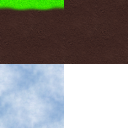
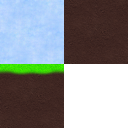
demoTilemap: cycle tiles on click, save/load map, minor cleanup

diff --git a/RaiderEngine/Tilemap.cpp b/RaiderEngine/Tilemap.cpp
@@ -4,7 +4,51 @@
 #include "settings.hpp"
 #include "timing.hpp"
 
-Tilemap::Tilemap(std::string spriteName, int gridSize, glm::vec2 mapSize, glm::vec2 pos, float depth) : gridSize(gridSize), mapSize(mapSize), pos(pos), depth(depth) {
+void Tilemap::setTileData(GLfloat start[], int x, int y) {
+	// TODO: simplify usage
+	// code modified from graphics.cpp >> renderText
+	GLfloat xpos = static_cast<GLfloat>(x * gridSize);
+	GLfloat ypos = static_cast<GLfloat>(y * gridSize);
+	GLfloat x0 = map[x][y] % (sprite.width / gridSize) / static_cast<float>((sprite.width / gridSize));
+	GLfloat y0 = map[x][y] / (sprite.width / gridSize) / static_cast<float>((sprite.height / gridSize));
+
+	GLfloat x1 = x0 + gridSize / static_cast<float>(sprite.width);
+	GLfloat y1 = y0 + gridSize / static_cast<float>(sprite.height);
+
+	// TODO: try tristrips (see GameObject2D / ParticleEmitter2D) for a minor performance boost
+	// add image position and uv data to the vertex vector
+	start[0] = xpos;
+	start[1] = ypos;
+	start[2] = x0;
+	start[3] = y0;
+	
+	start[4] = xpos;
+	start[5] = ypos + gridSize;
+	start[6] = x0;
+	start[7] = y1;
+	
+	start[8] = xpos + gridSize;
+	start[9] = ypos + gridSize;
+	start[10] = x1;
+	start[11] = y1;
+	
+	start[12] = xpos;
+	start[13] = ypos;
+	start[14] = x0;
+	start[15] = y0;
+	
+	start[16] = xpos + gridSize;
+	start[17] = ypos + gridSize;
+	start[18] = x1;
+	start[19] = y1;
+	
+	start[20] = xpos + gridSize;
+	start[21] = ypos;
+	start[22] = x1;
+	start[23] = y0;
+}
+
+Tilemap::Tilemap(std::string spriteName, int gridSize, glm::vec2 mapSize, glm::vec2 pos, int numTileTypes, float depth) : gridSize(gridSize), mapSize(mapSize), pos(pos), numTileTypes(numTileTypes), depth(depth) {
 	sprite = (spriteName == "" ? Model::defaultDiffuseMap : Model::loadTextureSimple(spriteName));
 	// TODO: consider instanced rendering visible tiles rather than storing and rendering entire tilemap every frame
 	// init VAO/VBO
@@ -16,63 +60,18 @@ Tilemap::Tilemap(std::string spriteName, int gridSize, glm::vec2 mapSize, glm::v
 	glEnableVertexAttribArray(0);
 	glVertexAttribPointer(0, 4, GL_FLOAT, GL_FALSE, 4 * sizeof(GLfloat), (GLvoid*)0);
 
-	// randomize map  // TODO: placeholder
-	map.resize(mapSize.x);
-	for (unsigned int i = 0; i < mapSize.x; ++i) {
-		map[i].reserve(mapSize.y);
-		for (unsigned int r = 0; r < mapSize.y; ++r)
-			map[i][r] = rand() % 4;
-	}
-	// code modified from graphics.cpp >> renderText
+	map.resize(static_cast<unsigned int>(mapSize.x));
+	for (unsigned int i = 0; i < mapSize.x; ++i)
+		map[i].resize(static_cast<unsigned int>(mapSize.y));
 	std::vector<GLfloat> verts;
-	verts.reserve(24 * mapSize.x * mapSize.y);
-	// Iterate through all characters
-	for (unsigned int i = 0; i < mapSize.x; ++i) {
-		for (unsigned int r = 0; r < mapSize.y; ++r) {
-			GLfloat xpos = i*gridSize;
-			GLfloat ypos = r*gridSize;
-			GLfloat x0 = map[i][r] % (sprite.width / gridSize) / static_cast<float>((sprite.width / gridSize));
-			GLfloat y0 = map[i][r] / (sprite.width / gridSize) / static_cast<float>((sprite.height / gridSize));
-
-			GLfloat x1 = x0 + gridSize / static_cast<float>(sprite.width);
-			GLfloat y1 = y0 + gridSize / static_cast<float>(sprite.height);
-
-			// TODO: try tristrips (see GameObject2D / ParticleEmitter2D) for a minor performance boost
-			// add image position and uv data to the vertex vector
-			verts[24 * (i*mapSize.y+r)] = xpos;
-			verts[24 * (i*mapSize.y+r) + 1] = ypos;
-			verts[24 * (i*mapSize.y+r) + 2] = x0;
-			verts[24 * (i*mapSize.y+r) + 3] = y0;
-
-			verts[24 * (i*mapSize.y+r) + 4] = xpos;
-			verts[24 * (i*mapSize.y+r) + 5] = ypos + gridSize;
-			verts[24 * (i*mapSize.y+r) + 6] = x0;
-			verts[24 * (i*mapSize.y+r) + 7] = y1;
-
-			verts[24 * (i*mapSize.y+r) + 8] = xpos + gridSize;
-			verts[24 * (i*mapSize.y+r) + 9] = ypos + gridSize;
-			verts[24 * (i*mapSize.y+r) + 10] = x1;
-			verts[24 * (i*mapSize.y+r) + 11] = y1;
-
-			verts[24 * (i*mapSize.y+r) + 12] = xpos;
-			verts[24 * (i*mapSize.y+r) + 13] = ypos;
-			verts[24 * (i*mapSize.y+r) + 14] = x0;
-			verts[24 * (i*mapSize.y+r) + 15] = y0;
-
-			verts[24 * (i*mapSize.y+r) + 16] = xpos + gridSize;
-			verts[24 * (i*mapSize.y+r) + 17] = ypos + gridSize;
-			verts[24 * (i*mapSize.y+r) + 18] = x1;
-			verts[24 * (i*mapSize.y+r) + 19] = y1;
-
-			verts[24 * (i*mapSize.y+r) + 20] = xpos + gridSize;
-			verts[24 * (i*mapSize.y+r) + 21] = ypos;
-			verts[24 * (i*mapSize.y+r) + 22] = x1;
-			verts[24 * (i*mapSize.y+r) + 23] = y0;
-		}
-	}
+	verts.reserve(static_cast<unsigned int>(24 * mapSize.x * mapSize.y));
+	// set each tile
+	for (unsigned int i = 0; i < mapSize.x; ++i)
+		for (unsigned int r = 0; r < mapSize.y; ++r)
+			setTileData(&verts[0] + static_cast<int>(24*(i * mapSize.y + r)),i,r);
 
 	// buffer the full set of tiles as a single triangle array for rendering
-	glBufferData(GL_ARRAY_BUFFER, 24 * sizeof(GLfloat) * mapSize.x * mapSize.y, &verts[0], GL_DYNAMIC_DRAW);
+	glBufferData(GL_ARRAY_BUFFER, static_cast<GLsizeiptr>(24 * sizeof(GLfloat) * mapSize.x * mapSize.y), &verts[0], GL_DYNAMIC_DRAW);
 
 	glBindBuffer(GL_ARRAY_BUFFER, 0);
 	glBindVertexArray(0);

diff --git a/RaiderEngine/demos/demoTilemap/demoTilemap.cpp b/RaiderEngine/demos/demoTilemap/demoTilemap.cpp
@@ -7,24 +7,90 @@
 #include "FpsDisplay.hpp"
 #include "input.hpp"
 #include "Tilemap.hpp"
+#include "input.hpp"
+
+Tilemap* t;
+
+void saveMap() {
+	std::fstream mapFile;
+	mapFile.open("demos/demoTilemap/map.txt", std::fstream::out | std::fstream::trunc);
+	for (int i = 0; i < t->mapSize.x; ++i)
+		for (int r = 0; r < t->mapSize.y; ++r)
+			mapFile << t->map[i][r] << ' ';
+	mapFile.close();
+}
+
+void loadMap() {
+	std::fstream mapFile;
+	mapFile.open("demos/demoTilemap/map.txt", std::fstream::in);
+	if (mapFile.is_open()) {
+		for (int i = 0; i < t->mapSize.x; ++i) {
+			for (int r = 0; r < t->mapSize.y; ++r) {
+				// TODO: quick and dirty saving / loading
+				mapFile >> t->map[i][r];
+
+				GLfloat verts[24];
+				t->setTileData(&verts[0], i, r);
+
+				glBindVertexArray(t->VAO);
+				glBindBuffer(GL_ARRAY_BUFFER, t->VBO);
+				glBufferSubData(GL_ARRAY_BUFFER, static_cast<GLintptr>(24 * sizeof(GLfloat) * (i * t->mapSize.y + r)), 24 * sizeof(GLfloat), verts);
+			}
+		}
+		mapFile.close();
+	}
+}
 
 int main() {
 	initEngine();
+	setEnableCursor(true);
 	// directories
 	setFontDir("demos/shared/fonts");
 	setTextureDir("demos/demoTilemap/images");
 
+	// keybindings
+	setKeyBinding("saveMap", GLFW_KEY_S);
+	setKeyBinding("loadMap", GLFW_KEY_L);
+
 	// fonts
 	freetypeLoadFont("Inter-Regular", 18);
 
-	addTilemap(new Tilemap("tilemap.png",64,glm::vec2(16,10),glm::vec2(0)));
+	// TODO: pass map data directly into tilemap constructor
+	t = addTilemap(new Tilemap("tilemap.png",64,glm::vec2(16,10),glm::vec2(0),3));
+	loadMap();
 
 	setVsync(false);
 	setClearColor(.85f, .85f, 1.f, 1.f);
-	addTextObject(new FpsDisplay(6, SCR_HEIGHT - 20, glm::vec3(1.f), "Inter-Regular", 18));
+	addTextObject(new FpsDisplay(6, static_cast<float>(SCR_HEIGHT - 20), glm::vec3(0.f), "Inter-Regular", 18));
+	addTextObject(new TextObject("Press S/L to save/load the Tilemap from the disk", 6, SCR_HEIGHT - 44, glm::vec3(0.f), "Inter-Regular", 18));
+	addTextObject(new TextObject("Left click the grid spaces to cycle their tile types", 6, SCR_HEIGHT - 68, glm::vec3(0.f), "Inter-Regular", 18));
 
 	while (beginFrame(false)) {
 		updateObjects();
+		// cycle hovered tile on left click
+		if (mousePressedLeft) {
+			int gridx = static_cast<int>((lastX - t->pos.x) / t->gridSize);
+			int gridy = static_cast<int>((lastY - t->pos.y) / t->gridSize);
+			if (!(gridx < 0 || gridy < 0 || gridx >= t->mapSize.x || gridy >= t->mapSize.y)) {
+				(++t->map[gridx][gridy]) %= t->numTileTypes;
+
+				GLfloat verts[24];
+				t->setTileData(&verts[0], gridx, gridy);
+
+				glBindVertexArray(t->VAO);
+				glBindBuffer(GL_ARRAY_BUFFER, t->VBO);
+				glBufferSubData(GL_ARRAY_BUFFER, static_cast<GLintptr>(24 * sizeof(GLfloat) * (gridx * t->mapSize.y + gridy)), 24 * sizeof(GLfloat), verts);
+			}
+		}
+
+		// save on 'S' key press
+		if (keyPressed("saveMap"))
+			saveMap();
+
+		// load on 'L' key press
+		if (keyPressed("loadMap"))
+			loadMap();
+
 		render(true);
 		// set the close flag if the player presses the escape key
 		if (keyPressed(GLFW_KEY_ESCAPE))

diff --git a/RaiderEngine/graphics.cpp b/RaiderEngine/graphics.cpp
@@ -527,7 +527,7 @@ GLFWwindow* initWindow() {
 	glfwSetKeyCallback(window, key_callback);
 
 	// tell GLFW to capture our mouse
-	glfwSetInputMode(window, GLFW_CURSOR, GLFW_CURSOR_DISABLED);
+	glfwSetInputMode(window, GLFW_CURSOR, enableCursor ? GLFW_CURSOR_NORMAL : GLFW_CURSOR_DISABLED);
 
 	// glad: load all OpenGL function pointers
 	// ---------------------------------------
@@ -762,7 +762,7 @@ void render2D(bool clearScreen) {
 		shaders["tilemapShader"]->setVec2("pos", tilemaps[i]->pos);
 		glBindBuffer(GL_ARRAY_BUFFER, tilemaps[i]->VBO);
 		glBindTexture(GL_TEXTURE_2D, tilemaps[i]->sprite.id);
-		glDrawArrays(GL_TRIANGLES, 0, tilemaps[i]->mapSize.x * tilemaps[i]->mapSize.y * 6);
+		glDrawArrays(GL_TRIANGLES, 0, static_cast<GLsizei>(tilemaps[i]->mapSize.x * tilemaps[i]->mapSize.y * 6));
 	}
 
 	// render GameObject2Ds

diff --git a/RaiderEngine/settings.cpp b/RaiderEngine/settings.cpp
@@ -92,6 +92,13 @@ void setVsync(bool shouldUse) {
 	}
 }
 
+void setEnableCursor(bool shouldEnable) {
+	if (enableCursor != shouldEnable) {
+		enableCursor = shouldEnable;
+		glfwSetInputMode(window, GLFW_CURSOR, enableCursor ? GLFW_CURSOR_NORMAL : GLFW_CURSOR_DISABLED);
+	}
+}
+
 void setScreenDimensions(int width, int height) {
 	frameBufferSizeCallback(window, width, height);
 }
@@ -143,7 +150,7 @@ void setFallbackShaderDir(std::string newDir) {
 update all objects in all object lists
 */
 void updateObjects() {
-	for (int i = 0; i < tilemaps.size(); ++i)
+	for (unsigned int i = 0; i < tilemaps.size(); ++i)
 		tilemaps[i]->update();
 	for (auto&& kv : gameObjects)
 		for (unsigned int i = 0; i < kv.second.size(); ++i)

diff --git a/RaiderEngine/settings.hpp b/RaiderEngine/settings.hpp
@@ -14,6 +14,7 @@
 // this file holds global settings and shared engine data
 inline unsigned int SCR_WIDTH = 1280, SCR_HEIGHT = 720;
 inline bool useVsync = false;
+inline bool enableCursor = false;
 inline bool fullScreen = false;
 inline const unsigned int SHADOW_WIDTH = 1024, SHADOW_HEIGHT = 1024;
 inline bool debugDraw = false;
@@ -76,6 +77,8 @@ void removeLight(Light* go);
 void removeLight(int ind);
 
 void setVsync(bool shouldUse);
+
+void setEnableCursor(bool shouldEnable);
 
 void setScreenDimensions(int width, int height);
 void setScreenDimensions(glm::vec2 res);

diff --git a/RaiderEngine/Tilemap.hpp b/RaiderEngine/Tilemap.hpp
@@ -12,8 +12,11 @@ public:
 	std::vector<std::vector<unsigned int>> map;
 	float depth;  // depth in NDC coordinates
 	glm::vec2 pos;
+	int numTileTypes;
 
-	Tilemap(std::string spriteName, int gridSize, glm::vec2 mapSize, glm::vec2 pos, float depth = 0.99f);
+	Tilemap(std::string spriteName, int gridSize, glm::vec2 mapSize, glm::vec2 pos, int numTileTypes, float depth = 0.99f);
+
+	void setTileData(GLfloat start[], int x, int y);
 
 	virtual void update();
 };
